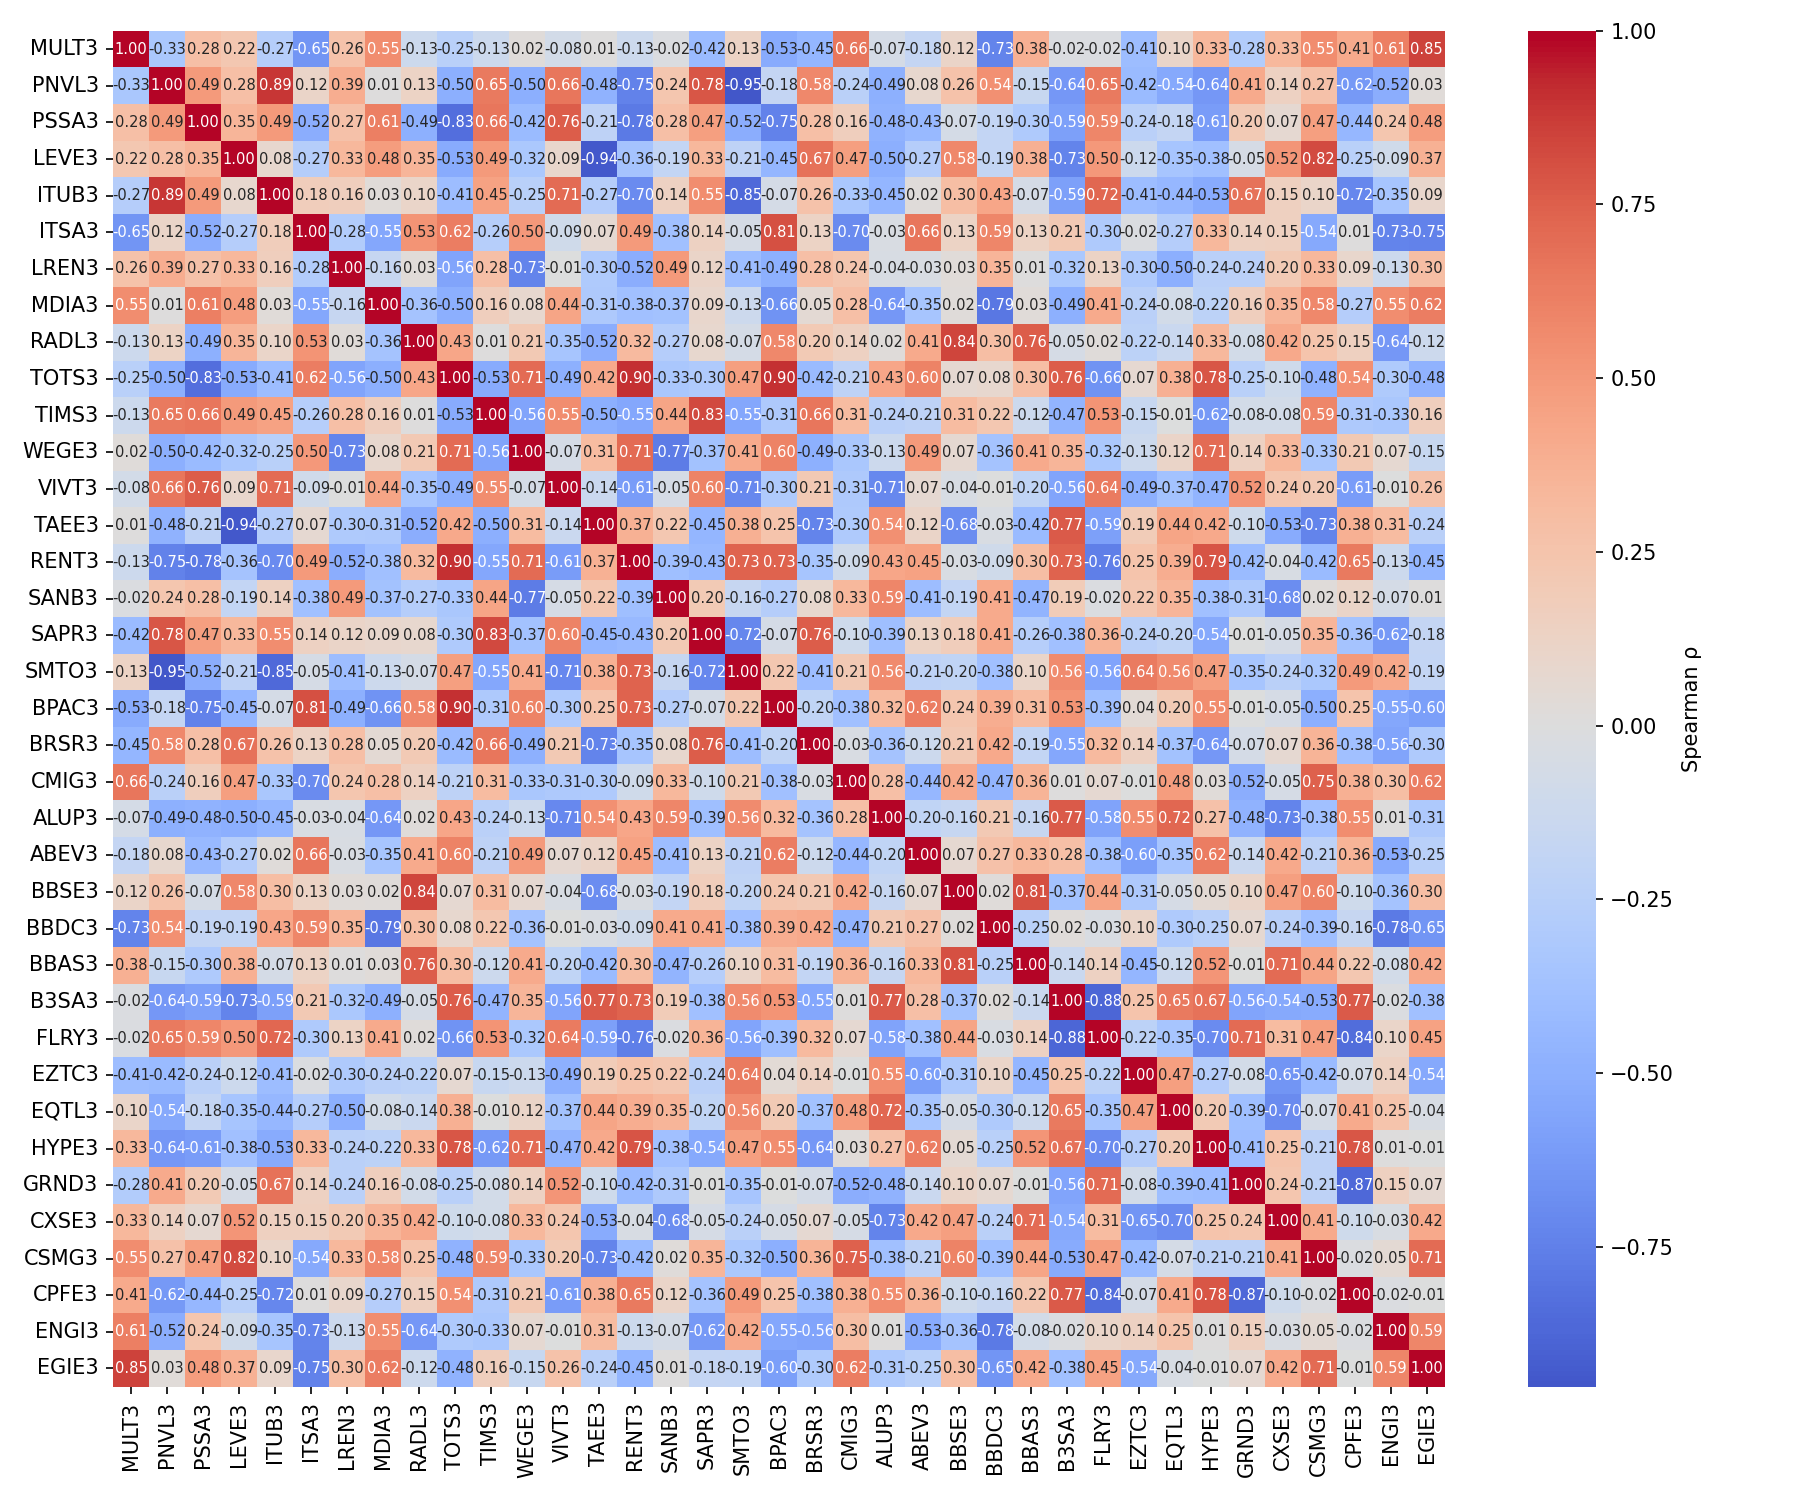
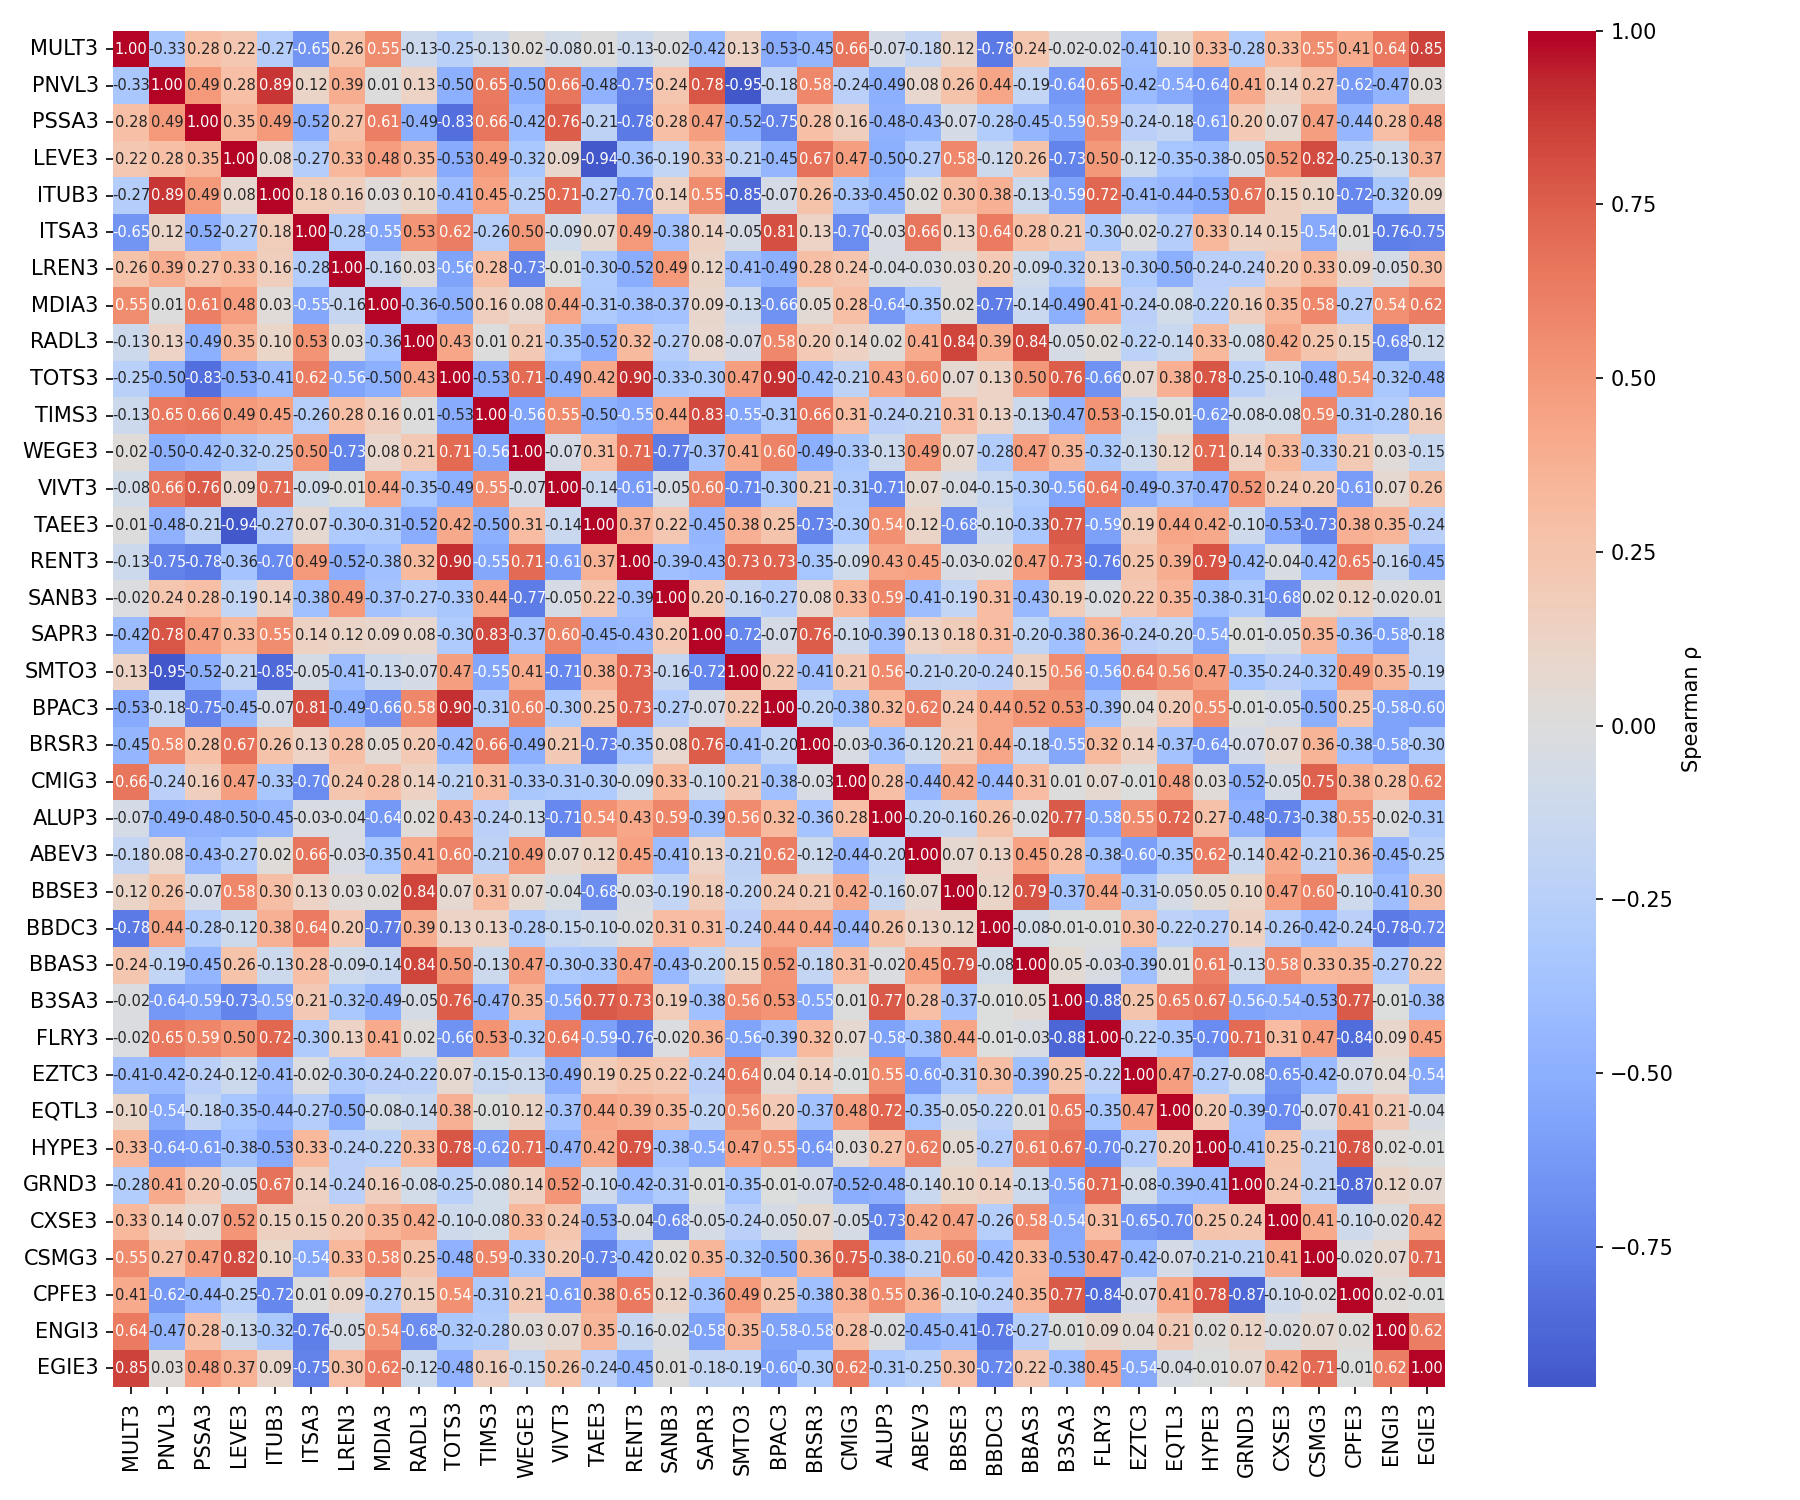
eligibility based boost for xango to help filter out noise in some stocks that were bumping their scores way to high (BBDC3, SANB3)

diff --git a/prof-corr.py b/prof-corr.py
@@ -7,9 +7,27 @@ from datetime import datetime
 
 from scipy.signal import detrend
 from scipy.stats import spearmanr
+from scipy.cluster.hierarchy import linkage, fcluster
+from scipy.spatial.distance import squareform
 from statsmodels.regression.mixed_linear_model import MixedLM
 
 import requests
+
+def select_diversified_stocks(corr_matrix, tickers, scores, K):
+    dist = np.sqrt(np.clip((1 - corr_matrix) / 2.0, 0, 1))
+
+    condensed = squareform(dist, checks=False)
+    link = linkage(condensed, method='average')
+
+    labels = fcluster(link, t=K, criterion='maxclust')
+
+    selected = []
+    for c in range(1, K + 1):
+        members = [i for i, lbl in enumerate(labels) if lbl == c]
+        best = max(members, key=lambda i: scores[tickers[i]])
+        selected.append(tickers[best])
+
+    return selected
 
 current_year = datetime.now().year
 years_range = [str(y) for y in range(current_year - 10, current_year)]
@@ -30,7 +48,7 @@ selic = selic.reindex(years_range)
 tickers = pd.DataFrame(requests.get('http://localhost:3200/stocks/fundamental?fields=XANGO INVESTING SCORE&dates=2026-06-15').json()['data'])
 
 tickers = tickers[(tickers["XANGO INVESTING SCORE"] > 0) & (tickers["TICKER"].str.endswith("3"))]
-selected_tickers = tickers[(tickers["XANGO INVESTING SCORE"] > 60) & (tickers["TICKER"].str.endswith("3"))]
+selected_tickers_df = tickers[(tickers["XANGO INVESTING SCORE"] > 60) & (tickers["TICKER"].str.endswith("3"))]
 tickers = ", ".join(tickers['TICKER'].to_list())
 
 profits = pd.DataFrame(requests.get(f'http://localhost:3200/stocks/historical?fields=LUCRO LIQUIDO&search={tickers}').json()['data'])
@@ -39,7 +57,7 @@ profits.columns = profits.columns.str.extract(r'(\d+)')[0]
 
 profits_10y = profits[years_range].dropna()
 
-selected_tickers = [t for t in selected_tickers['TICKER'].tolist() if t in profits_10y.index]
+selected_tickers = [t for t in selected_tickers_df['TICKER'].tolist() if t in profits_10y.index]
 
 # data engineering
 log_profits = np.log(np.maximum(profits_10y.values.astype(float), 1))
@@ -92,7 +110,7 @@ for i, ticker in enumerate(selected_tickers):
     betas_m[i] = beta_m_i
 
 # spearman correlation
-corr, _ = spearmanr(epsilon, axis=1)
+corr, pval = spearmanr(epsilon.T)
 np.fill_diagonal(corr, 1.0)
 
 corr_df = pd.DataFrame(corr, index=selected_tickers, columns=selected_tickers)
@@ -106,7 +124,16 @@ plt.tight_layout()
 plt.savefig("epsilon_correlation.png", dpi=150)
 plt.close()
 
-# drop correlated
+# drop correlated using hrp clustering + pick best per cluster
+scores = dict(zip(selected_tickers_df['TICKER'], selected_tickers_df['XANGO INVESTING SCORE']))
+final_tickers = select_diversified_stocks(corr, selected_tickers, scores, K=16)
+
+for t in final_tickers:
+    print(f"  {t}: {scores[t]:.1f}")
+
+print(f"WEGE3 in selected_tickers: {'WEGE3' in selected_tickers}")
+print(f"WEGE3 in scores: {'WEGE3' in scores}")
+
 """
 to be used to compose the views of the black-litterman together with the xango investing scores
 

diff --git a/xango.py b/xango.py
@@ -12,8 +12,8 @@ MIN_YEARS = 10
 # should be adjusted based on the needs for
 # - growth companies for short time: capital apport for short term, 5 years
 # - consistent companies over time: capital apport for more than 5 years
-CONSISTENCY_WEIGHT = 0.85
 GROWTH_WEIGHT = 0.75
+CONSISTENCY_WEIGHT = 0.45
 
 GROWTH_THRESHOLD_BASELINE = 0.10
 GROWTH_K = 4
@@ -36,12 +36,12 @@ TICKERS = [
     "MGLU3", "AURE3", "KEPL3", "CSAN3", "UNIP6", "TRPL4", "BPAC11", "CSNA3",
     "KLBN11", "DXCO3", "CYRE3", "DIRR3", "ENGI11", "BRKM5", "MYPK3", "OIBR3",
     "TASA4", "PETZ3", "CASH3", "RAIZ4", "LIGT3", "GOLL4", "AZUL4", "USIM5",
-    "JALL3", "NGRD3", "AERI3", "BHIA3", "HBSA3"
+    "JALL3", "NGRD3", "AERI3", "BHIA3", "HBSA3", "BBDC3", "SANB3"
 ]
 TICKERS_SEARCH = [t[:4] for t in TICKERS]
 TICKERS_SEARCH = ", ".join(TICKERS_SEARCH)
 
-fund = pd.DataFrame(requests.get(f"http://localhost:3200/stocks/fundamental?search={TICKERS_SEARCH}&fields=LIQUIDEZ MEDIA DIARIA&dates=2026-04-16").json()["data"])
+fund = pd.DataFrame(requests.get(f"http://localhost:3200/stocks/fundamental?search={TICKERS_SEARCH}&fields=LIQUIDEZ MEDIA DIARIA&dates=2026-06-18").json()["data"])
 hist = pd.DataFrame(requests.get(f"http://localhost:3200/stocks/historical?search={TICKERS_SEARCH}&fields=LUCRO LIQUIDO").json()["data"])
 df = pd.merge(fund, hist).drop(columns={"LUCRO LIQUIDO 999"})
 
@@ -93,6 +93,11 @@ for idx, row in df[df["TICKER"].isin(TICKERS)].iterrows():
         m_dd = min(1, m_dd)
 
         base = growth * GROWTH_WEIGHT + consistency * CONSISTENCY_WEIGHT
+        
+        g_elig = 0.5 * (np.tanh((growth - 50) / 5) + 1)
+        c_elig = 0.5 * (np.tanh((consistency - 80) / 3) + 1)
+        base *= 1.0 + 0.20 * g_elig * c_elig
+
         score = min(100, max(0, base * m_vol * m_dd))
         
         m_liq = max(0.5, np.sqrt(min(1, total_liq.loc[row["NOME"]] / 10_000_000))) if total_liq.loc[row["NOME"]] < 10_000_000 else 1